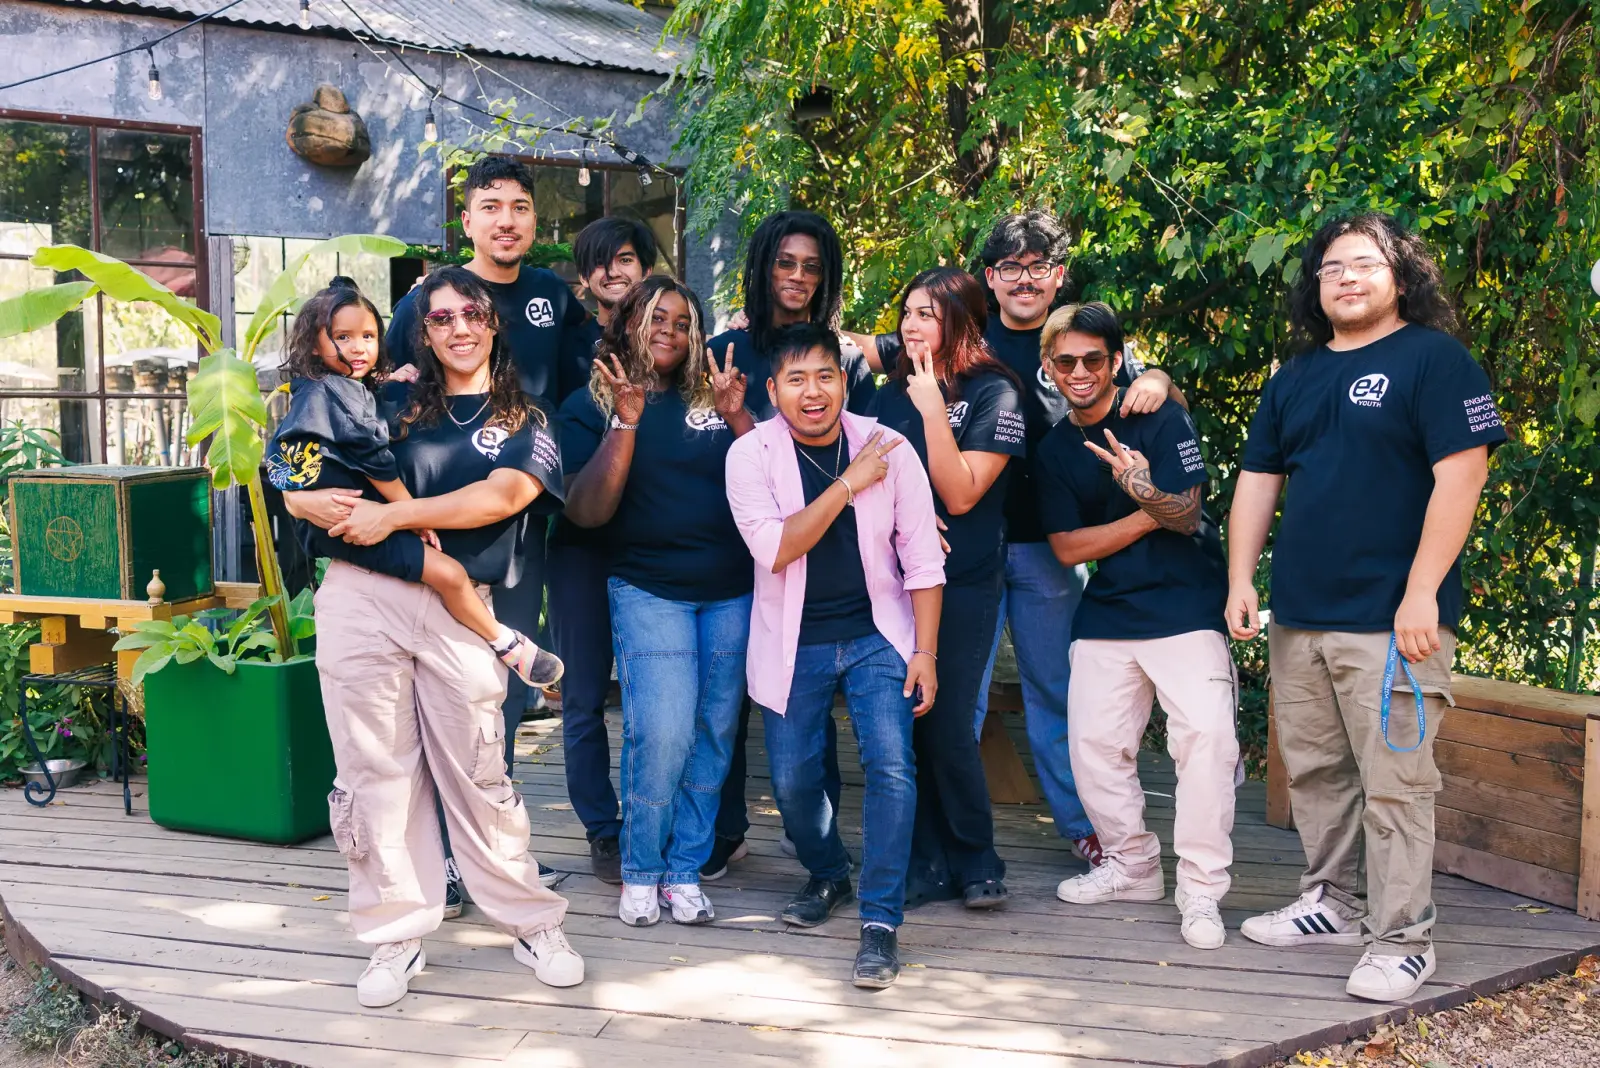
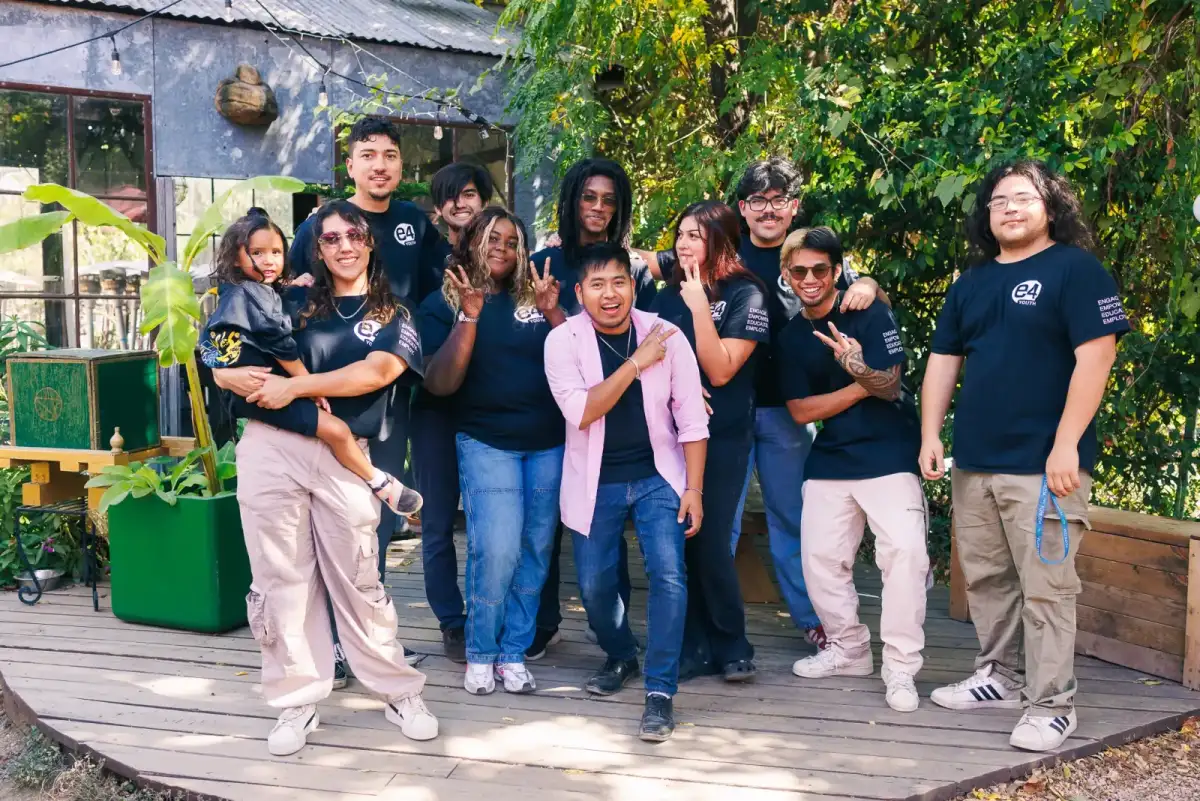
perf: aggressive hero image optimization (268KB→129KB) + preload hint
Resized hero to 1200px width at q60 for faster LCP on mobile.
Added link preload for hero image in layout.tsx head.

diff --git a/src/app/layout.tsx b/src/app/layout.tsx
@@ -46,6 +46,12 @@ export default function RootLayout({ children }: { children: React.ReactNode }) 
   return (
     <html lang="en" className={`${inter.variable} ${poppins.variable}`}>
       <head>
+        <link
+          rel="preload"
+          href="/images/e4youth/_a4a2514.webp"
+          as="image"
+          type="image/webp"
+        />
         <Script
           src="https://www.googletagmanager.com/gtag/js?id=G-887T09CZYB"
           strategy="lazyOnload"
